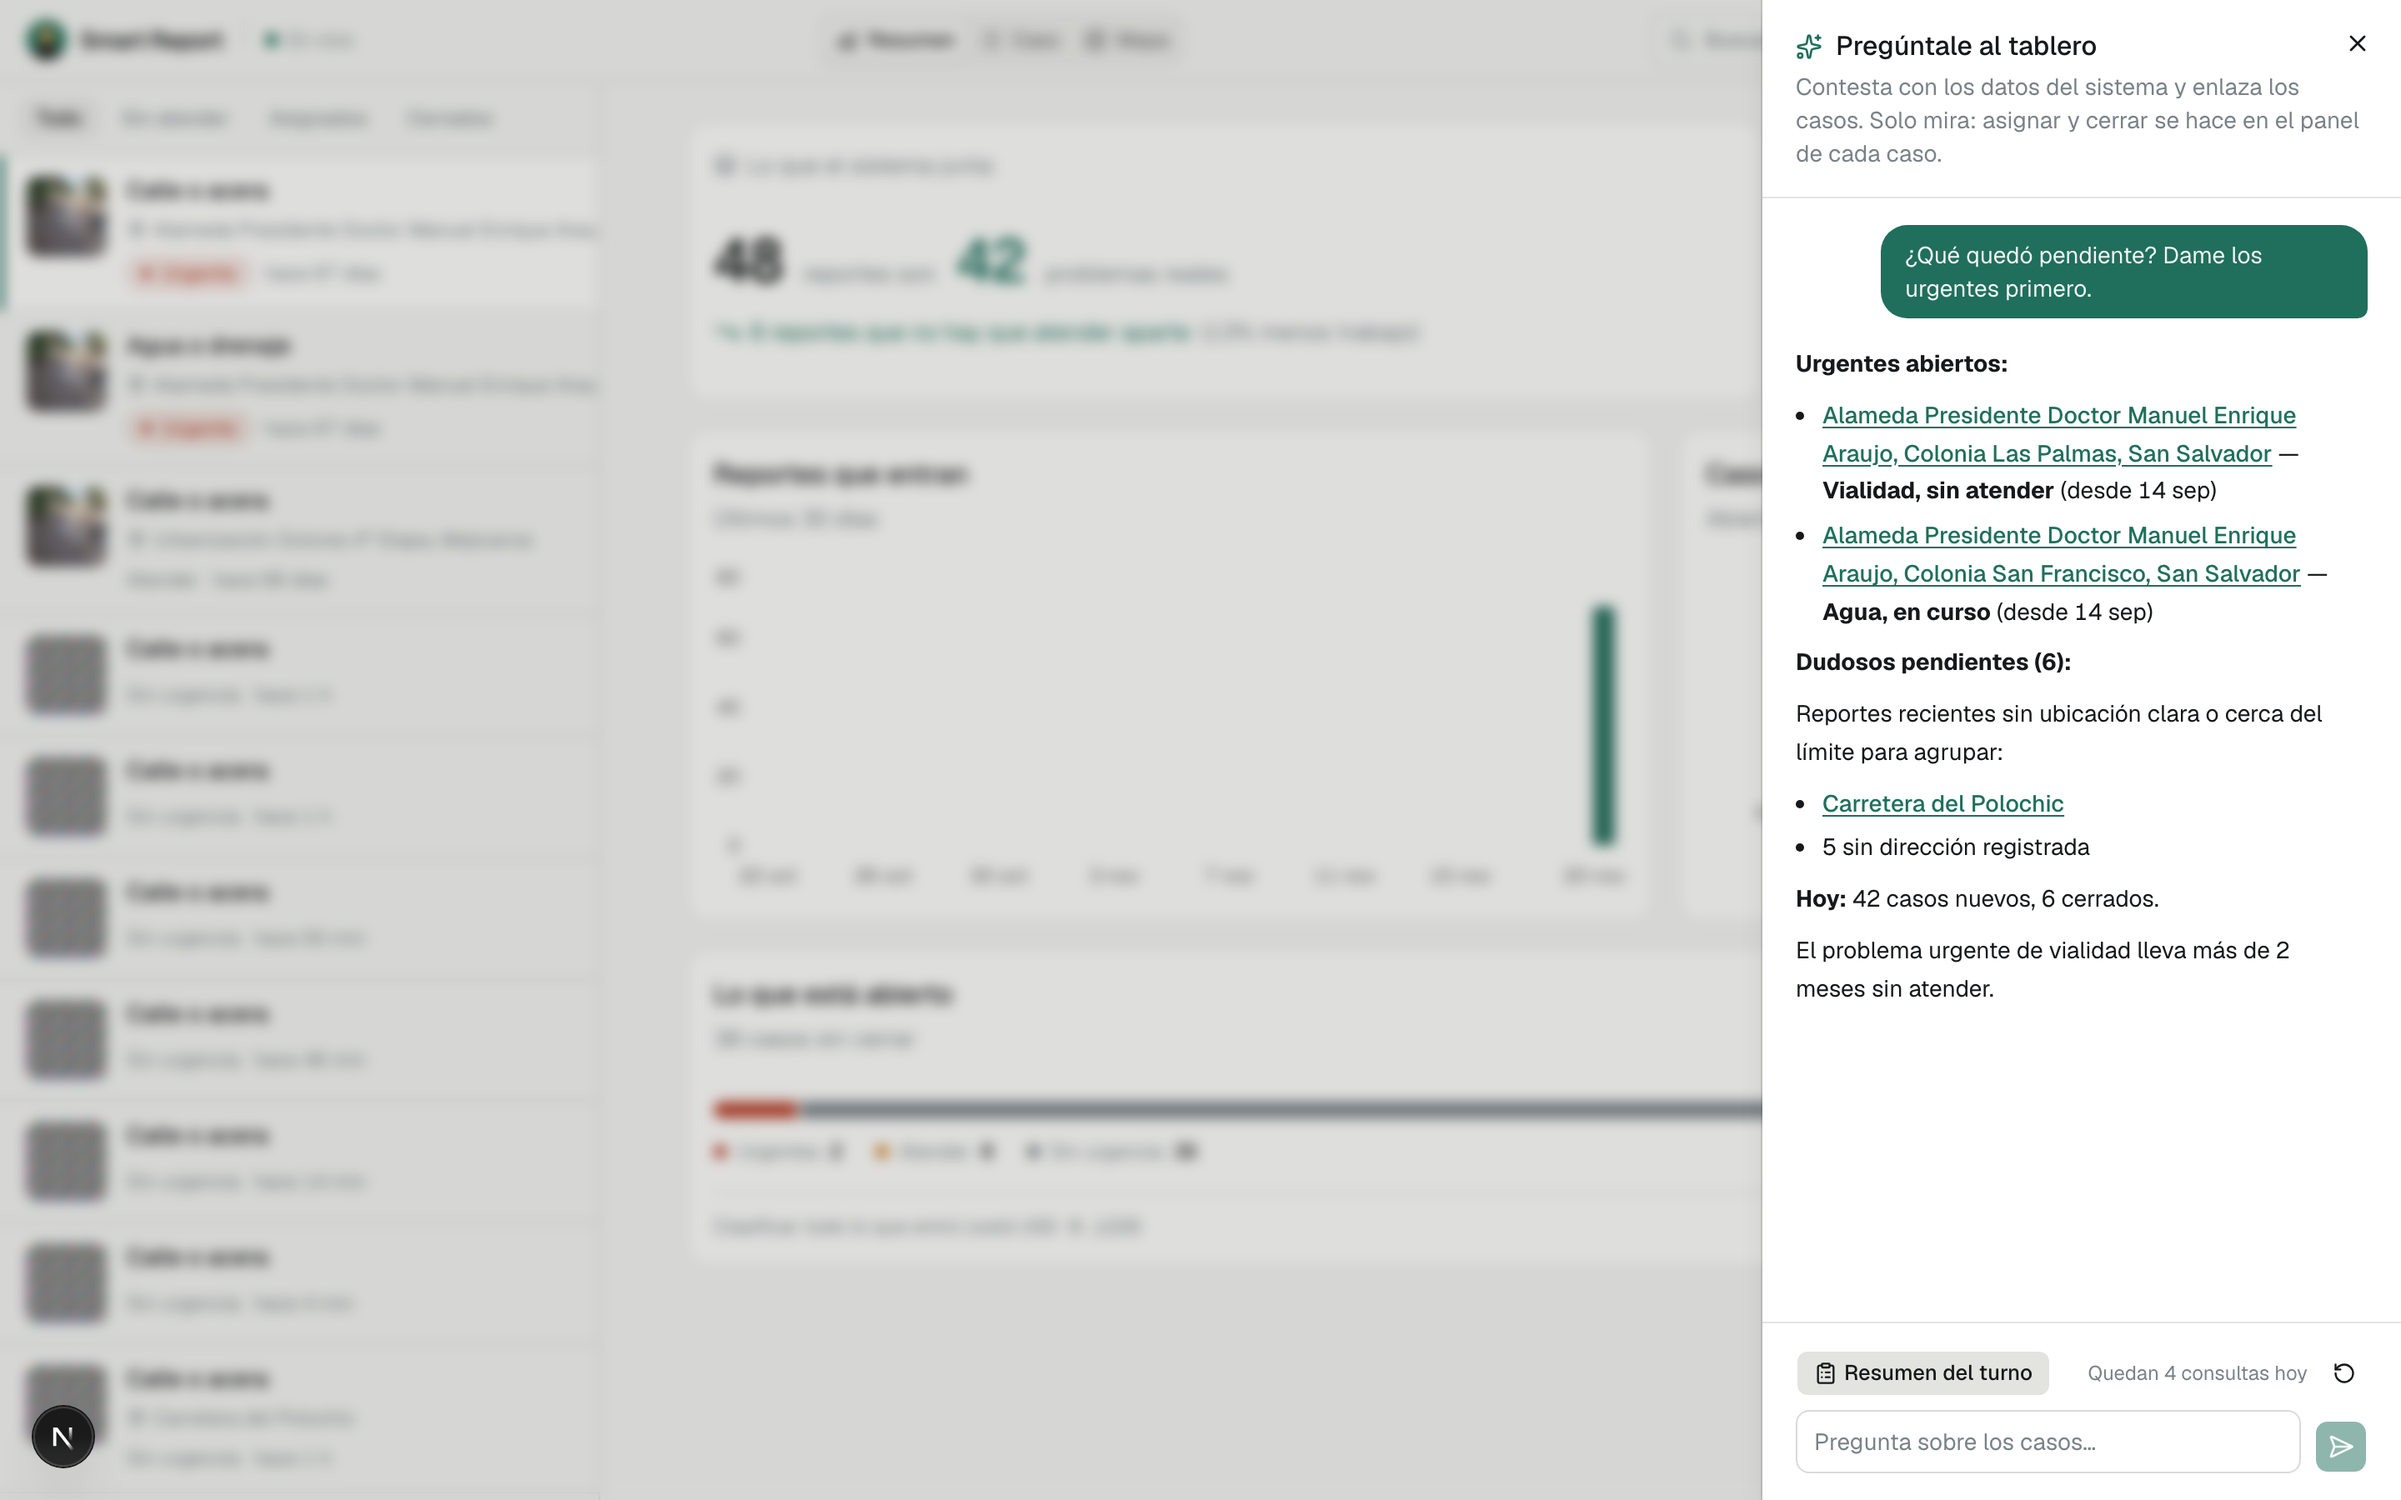
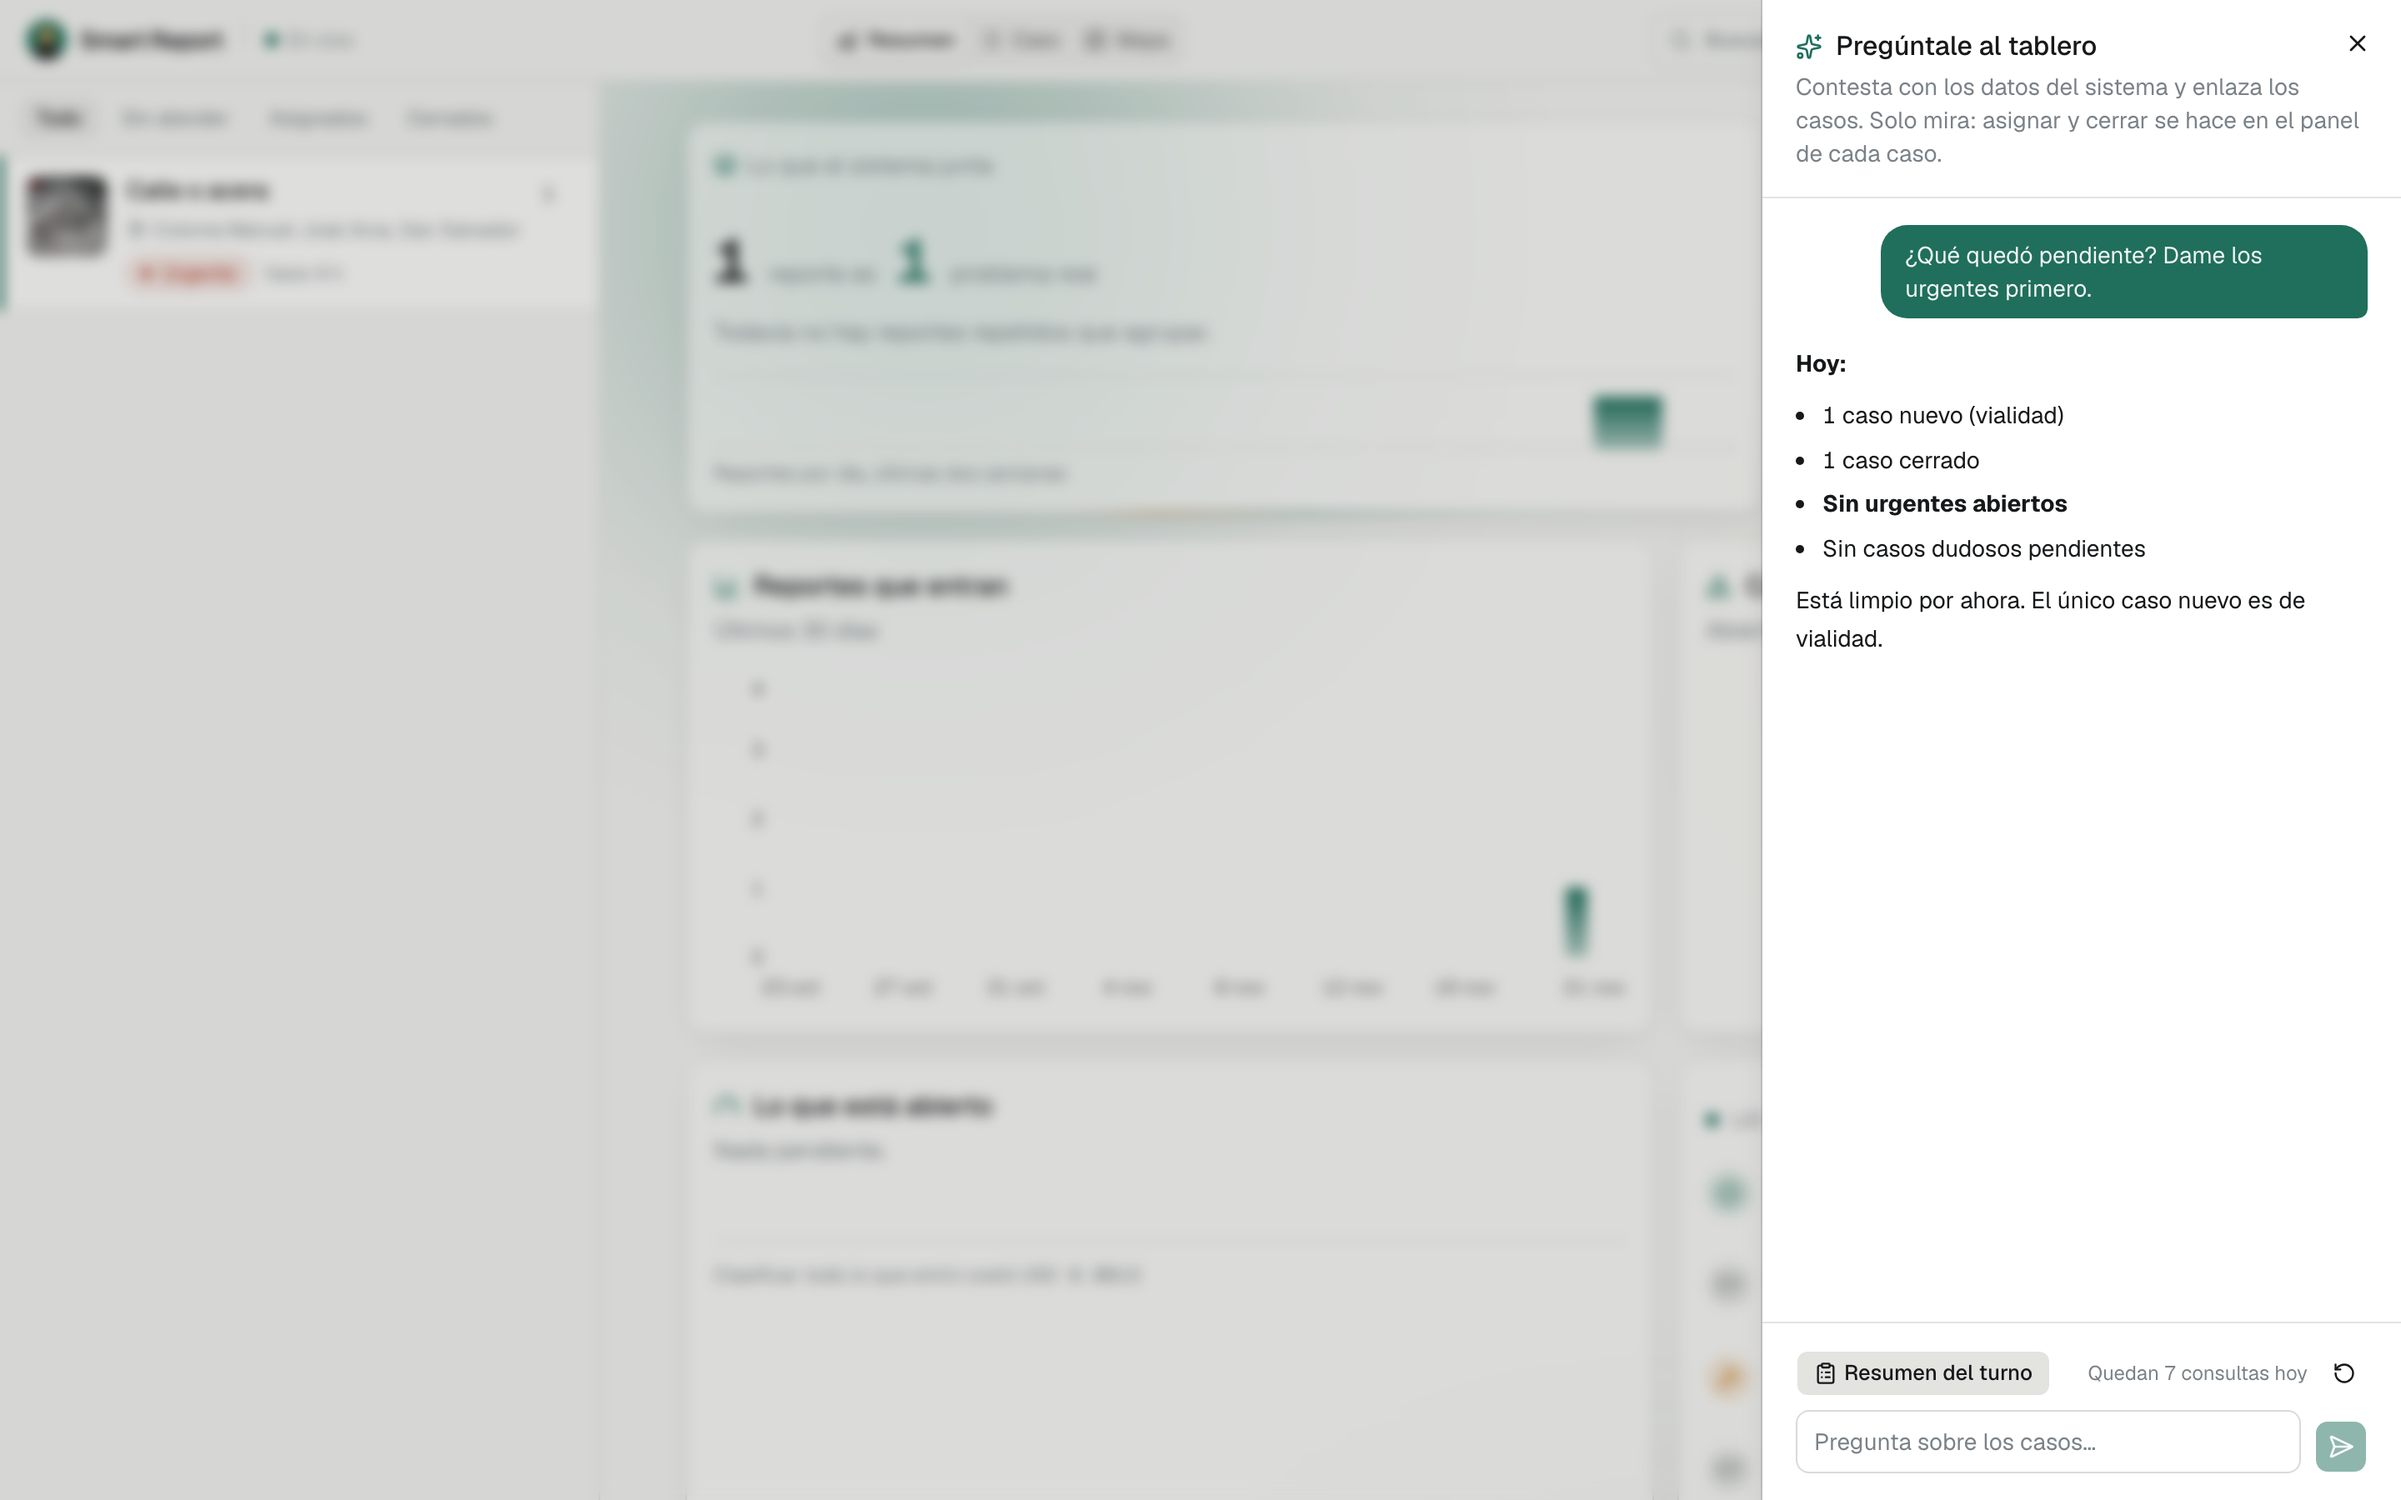
docs: refresh README screenshots from production and add the 3D map
The dashboard screenshots predated the redesign. They are now taken from the
live system as the read-only guest, through an SSH tunnel when the network
filters the domain (the capture script gains BASE_URL/RESOLVER support, opens
the first real case by URL instead of a hardcoded address, and also captures
the 3D map). The closed case now shows its repair photo and dispatch timeline
to the guest. README describes the colored map, the 3D view and the phone
layout.

diff --git a/README.md b/README.md
@@ -120,16 +120,25 @@ el tiempo. Se actualiza solo, sin recargar.
 
 ![La cola de casos, métricas y la entrada de reportes en el tiempo](docs/capturas/tablero-resumen.png)
 
-Un caso abierto: la foto de quien reportó, la dirección resuelta, y el panel de
-despacho, que no deja cerrar sin foto del arreglo porque un cierre sin
+Un caso cerrado, de punta a punta: la foto de quien reportó, la dirección
+resuelta, la cuadrilla, cuándo se asignó y se resolvió, **la foto del arreglo**
+y a cuántas personas se les avisó. No se cierra sin esa foto: un cierre sin
 evidencia es una afirmación que nadie puede comprobar.
 
-![Detalle de un caso con su foto, dirección y el panel de despacho](docs/capturas/tablero-caso.png)
+![Caso cerrado con la foto del bache, la del arreglo y su despacho](docs/capturas/tablero-caso.png)
 
-El mapa. El tamaño del pin dice cuántas personas reportan lo mismo: un mapa de
-puntos iguales tira a la basura justo la información que importa.
+El mapa, con la paleta del proyecto: agua, parques y edificios con color, pero
+sin rojo ni ámbar, que quedan para lo urgente. El tamaño del pin dice cuántas
+personas reportan lo mismo, y lo urgente late.
 
 ![Mapa de casos sobre San Salvador](docs/capturas/tablero-mapa.jpg)
+
+Y en **3D**: los edificios en relieve y los casos como columnas por zona, más
+altas donde más gente reporta y rojas donde hay algo urgente. Encuadra solo la
+zona con más reportes, las columnas crecen al entrar, y si nadie lo toca la
+cámara gira despacio. Sin librerías de 3D: es el mismo MapLibre.
+
+![Mapa 3D con edificios en relieve y la columna de un caso urgente](docs/capturas/tablero-mapa-3d.jpg)
 
 **Pregúntale al tablero.** Un panel donde se escribe «¿qué quedó pendiente?» o
 «resumen de la semana», y el modelo contesta con los datos del sistema y
@@ -149,11 +158,9 @@ resumen trae un feed con lo que ocurre de verdad —reportes que entran, casos q
 se juntan, asignaciones, cierres y a cuántas personas se avisó—, que se mueve
 solo por los mismos avisos de Postgres que el resto del tablero.
 
-El mapa tiene **vista 3D**: los edificios en relieve y los casos como columnas
-por zona, más altas donde más gente reporta y rojas donde hay algo urgente.
-Encuadra solo la zona con más reportes, las columnas crecen al entrar, y si
-nadie lo toca la cámara gira despacio. Sin librerías de 3D: es el mismo
-MapLibre, y el tablero pesa unos 10 KB más.
+En el celular el tablero cambia de forma: una barra abajo con Cola, Resumen,
+Caso y Mapa, y cada vista a pantalla completa. Quien despacha desde la calle
+puede asignar, marcar en curso y subir la foto del arreglo desde el teléfono.
 
 > Las capturas del tablero las saca un guion contra lo que haya en la base, no
 > una mano: `cd frontend && DEMO_PASSWORD=… node scripts/capturas.mjs`.
